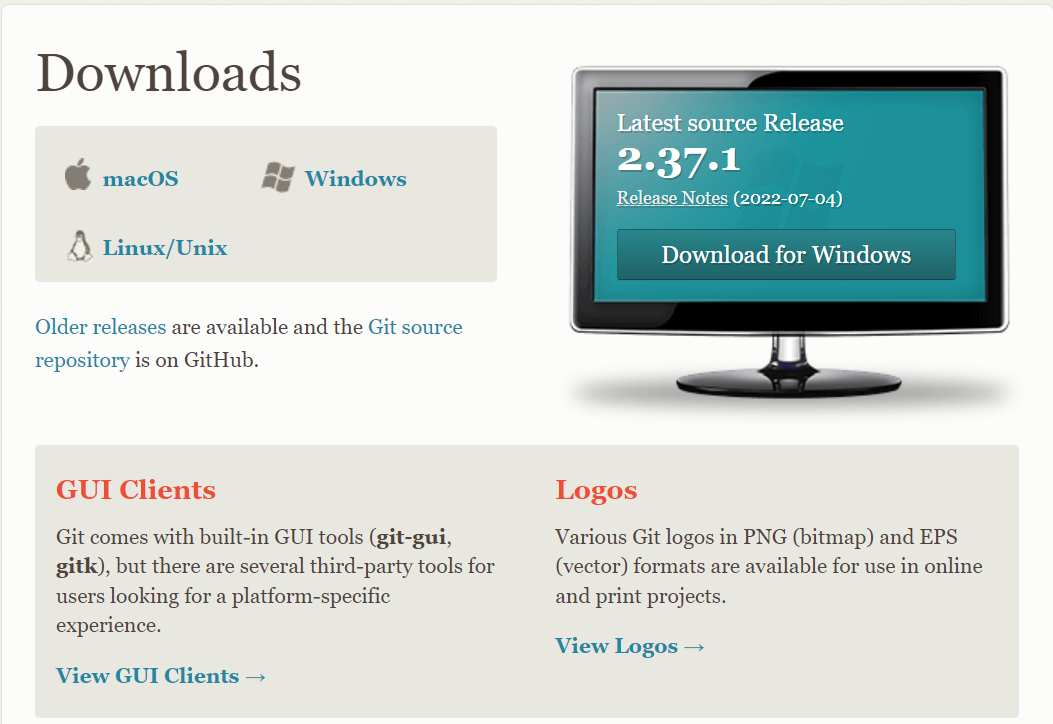
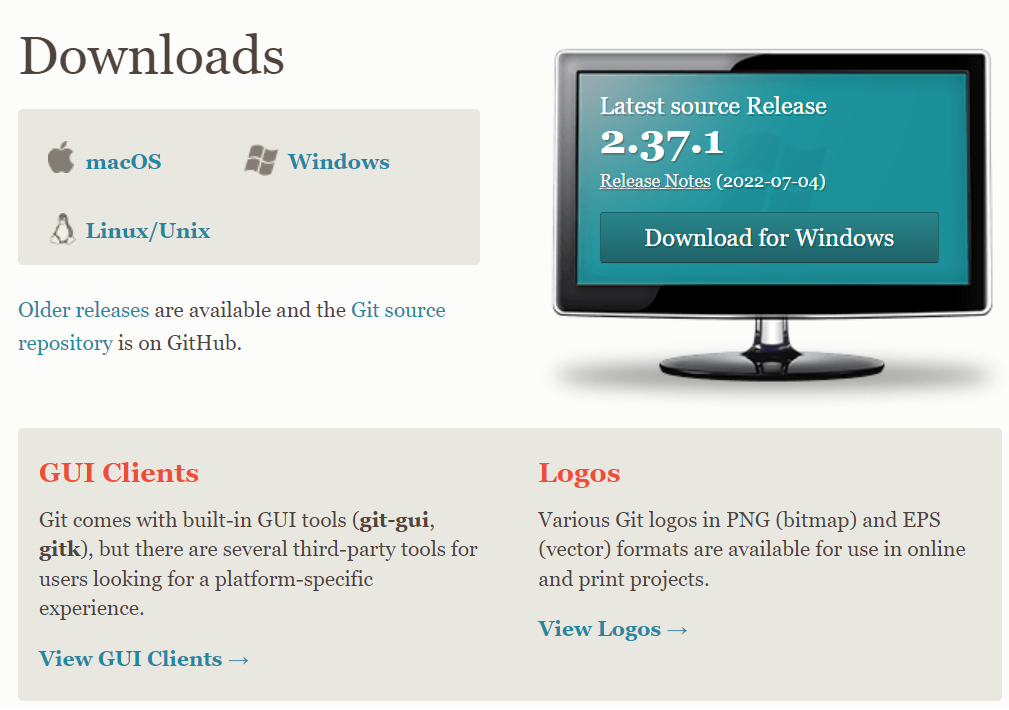
:hammer: modify figure borders for Git installation instructions

Changed region(s): [[0.0, 0.062, 1.0, 0.9915], [0.0, 0.031, 0.4916, 0.5268], [0.5223, 0.8676, 0.6759, 0.9296]]

diff --git a/README.md b/README.md
@@ -56,7 +56,7 @@ GitHub is just a website which hosts your project contents. Git is actually the 
 
 Installing `Git` allows you to perform commands to clone code, modify it and then publish a new version in your code repository. We can use Git through the command line interface (CLI) or through the graphical user interface (GUI). For simplicity, we will demonstrate Git using the GUI but people are also welcome to use the CLI.   
 
-<details><summary>Git installation instructions</summary>  
+<details><summary>Git installation steps</summary>  
 <p>  
 
 1. Git is installed by default on Mac and Linux machines. Search through your applications to check whether you already have Git installed. To install Git on your non-work laptop or computer, navigate to [https://git-scm.com/downloads](https://git-scm.com/downloads) and select your operating system.    
@@ -78,13 +78,17 @@ Installing `Git` allows you to perform commands to clone code, modify it and the
 
 5. Congratulations! You have now installed Git in your non-work environment. You should now be able to access the Git GUI via the search bar.  
 
-    <img src="./figures/git_installation_process_3.png" width="500px"><br>  
+    <img src="./figures/git_gui_search.png" width="500px"><br>  
 
 </p>
 </details>
 
-## Step 4: Using Git to publish code to GitHub (everyone)  
+## Step 4: Using Git to publish code to GitHub (everyone)   
 
 
 
-# Other resources  
+# Other resources   
++ The [Git tutorials](https://www.atlassian.com/git/tutorials/setting-up-a-repository) and [Git cheatsheet](https://www.atlassian.com/git/tutorials/atlassian-git-cheatsheet) from Atlassian.   
++ The [R Programming Git Guide Book](https://happygitwithr.com/) written by Jenny Bryan and [contributors](https://happygitwithr.com/contrib.html).   
++ [Instructions for using the Git GUI](https://www.geeksforgeeks.org/working-on-git-for-gui/) from GeeksforGeeks.    
++ [Instructions for using Git Bash with GitHub](https://www.geeksforgeeks.org/ultimate-guide-git-github/?ref=lbp) from GeeksforGeeks.   
